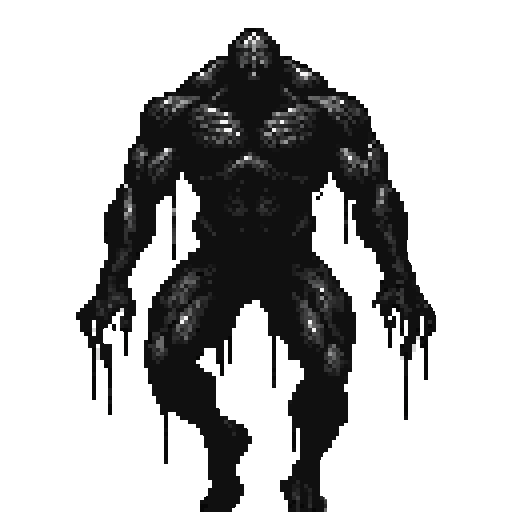
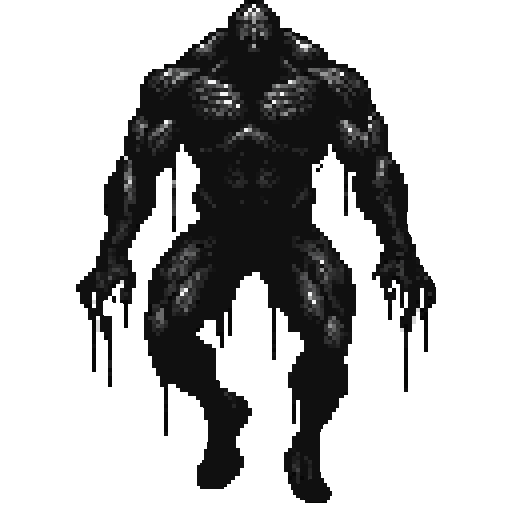
Added font, anf fixed some bug in Deck
1. Added UIText that is able to take in font and actually use it.
2. Fixed the bug inside Card that makes the shuffle to not work properly because the deck was hardcoded to only have 52 cards before so when we shuffle it also shuffles the garbage value inside too, causing garbage value to come out

diff --git a/src/main.cpp b/src/main.cpp
@@ -9,6 +9,7 @@
 #include <vector>
 #include <algorithm>
 #include "SimpleTexture.hpp"
+#include "UIObject.hpp"
 
 
 int main()
@@ -27,7 +28,7 @@ int main()
     ToggleBorderlessWindowed();
     
     RenderTexture2D target = LoadRenderTexture(virtualWidth, virtualHeight);
-    SetTextureFilter(target.texture, TEXTURE_FILTER_BILINEAR);
+    SetTextureFilter(target.texture, TEXTURE_FILTER_POINT); 
 
     //global variable
     //---------------------
@@ -35,6 +36,7 @@ int main()
     int lose = 0;
 
     AssetManager assets;
+    std::vector<GameObject2D*> scene_objects;
     //---------------------
 
 
@@ -45,31 +47,38 @@ int main()
     Player player = Player();
     player.addIntoHand(gameDeck.drawCard(3));
 
-    Texture2D cardTexture = assets.getOrLoadTexture("assets/Card.png");
-    Texture2D monster = assets.getOrLoadTexture("assets/OilMan.png");
-    Texture2D backgr = assets.getOrLoadTexture("assets/Background.png");
-
     Enemy oilman = Enemy();
     oilman.position.x = virtualWidth/2;
     oilman.position.y = virtualHeight/2;
     oilman.zIndex = 0; 
+    scene_objects.push_back(&oilman);
 
     SimpleTexture background = SimpleTexture("assets/Background.png");
     background.position.x = virtualWidth/2;
     background.position.y = virtualHeight/2;
     background.zIndex = -1;
     background.scale = {0.5f, 0.5f};
+    scene_objects.push_back(&background);
 
-    int x = -100;
+    int x = -500;
     for (Card& c : player.getHand()){
-        std::cout << c.suit << " " << c.rank << "\n";
+        std::cout << c.rank << "\n";
         c.position.x = (virtualWidth/2) + x;
         c.position.y = (virtualHeight/2) + 300;
         c.scale = {2.0f, 2.0f};
         c.zIndex = 1; 
-        x += 100;
+        x += 300;
+        scene_objects.push_back(&c);
     }
     std::cout << "Total sum : " <<  std::to_string(player.getSum()) << "\n";
+
+    UIText gameName = UIText("Oil Man Prototype", "assets/fonts/fibberish.ttf", assets);
+    gameName.position = {virtualWidth/2, virtualHeight/2};
+    scene_objects.push_back(&gameName);
+
+    UIText winAmountText = UIText("Win: ", "assets/fonts/fibberish.ttf", assets);
+    winAmountText.position = {10, 10};
+    scene_objects.push_back(&winAmountText);
 
     // Main Game Loop
     while (!WindowShouldClose())
@@ -79,12 +88,6 @@ int main()
 
         //-----------------------
 
-        //Inputs
-        //-----------------------
-        // F11 Toggle removed since game is now always fullscreen
-        //-----------------------
-
-
         //Drawing to screen
         //-----------------------
         BeginTextureMode(target);
@@ -92,19 +95,22 @@ int main()
 
 
             std::vector<GameObject2D*> renderQueue;
-            if (!oilman.hidden) {
-                renderQueue.push_back(&oilman);
-            }
-            if (!background.hidden) {
-                renderQueue.push_back(&background);
-            }
-            for (Card& c : player.getHand()) {
-                if (!c.hidden) {
-                    renderQueue.push_back(&c);
+            std::vector<GameObject2D*> UIrenderQueue;
+
+            for (const auto& o : scene_objects){
+                if (o->type == ObjectType::UI){
+                    UIrenderQueue.push_back(o);
+                }
+                else{
+                    renderQueue.push_back(o);
                 }
             }
-
+            
             std::stable_sort(renderQueue.begin(), renderQueue.end(), [](GameObject2D* a, GameObject2D* b) {
+                return a->zIndex < b->zIndex;
+            });
+
+            std::stable_sort(UIrenderQueue.begin(), UIrenderQueue.end(), [](GameObject2D* a, GameObject2D* b) {
                 return a->zIndex < b->zIndex;
             });
 
@@ -113,9 +119,11 @@ int main()
                 obj->draw(assets);
             }
 
-            DrawTextCentered("Oil Man Prototype", virtualWidth/2, virtualHeight/2, 20, RAYWHITE);
-            DrawText(TextFormat("Win: %d", win), 0, 0, 40, RAYWHITE);
-            DrawText(TextFormat("Lose: %d", lose), 0, 30, 40, RAYWHITE);
+            for (GameObject2D* obj : UIrenderQueue) {
+                obj->draw(assets);
+            }
+
+
 
         EndTextureMode();
         
@@ -136,7 +144,6 @@ int main()
     }
 
     UnloadRenderTexture(target);
-    UnloadTexture(cardTexture);
 
     // 3. Clean up
     CloseWindow();

diff --git a/src/Card.cpp b/src/Card.cpp
@@ -10,14 +10,12 @@ Deck::Deck(){
 
 void Deck::initDeck(){
     int index = 0;
-    for (int s=0 ; s < 4; s++ )
+    for (int r=0 ; r < 9; r++ )
     {
-        for (int r = 1; r < 14; r++){
-            m_allCards[index] = Card(static_cast<Suit>(s), r);
+            m_allCards[index] = Card(r);
             index++;
-        }
     }
-    m_cardCount = 52;
+    m_cardCount = 9;
 
     shuffleDeck();
     return;
@@ -25,8 +23,8 @@ void Deck::initDeck(){
 
 void Deck::shuffleDeck(){
     static std::random_device rd;
-    static std::mt19937 g(rd()); //seed Mersenne Twister with the random seed, and this returns a random number
-    std::shuffle(m_allCards.begin(), m_allCards.end(), g);
+    static std::mt19937 g(rd()); 
+    std::shuffle(m_allCards.begin(), m_allCards.begin() + m_cardCount, g);
     return;
 }
 
@@ -40,20 +38,12 @@ std::vector<Card> Deck::drawCard(int amount){
     return DrawnCard;
 }
 
-std::string Card::getSuit() const {
-    switch (suit) {
-        case Spade:   return "Spade";
-        case Heart:   return "Heart";
-        case Club:    return "Club";
-        case Diamond: return "Diamond";
-    }
-    return "Unknown";
-}
-
 void Card::draw(AssetManager& assets) const {
     if (hidden) return;
-    Texture2D tex = assets.getOrLoadTexture(getTexturePath());
+    Texture2D tex = assets.getOrLoadTexture(getTexturePath());    
     DrawTextureCentered(tex, position, scale, rotation, tint);
+    std::string rankText = std::to_string(rank);
+    DrawTextCentered(rankText.c_str(), position.x, position.y, 90, BLACK);
     return;
     
 }

diff --git a/include/UIObject.hpp b/include/UIObject.hpp
@@ -4,11 +4,26 @@
 #include <GameObject2D.hpp>
 #include <AssetManager.hpp>
 
-class UIObject : public GameObject2D{
+class UITexture : public GameObject2D{
     public:
-        UIObject() = default;
-        explicit UIObject(std::string path) : TexturePath(path){};
+        ObjectType type = ObjectType::UI;
+        explicit UITexture(std::string path) : TexturePath(path){};
         std::string TexturePath;
         std::string getTexturePath() const {return TexturePath;}
+        void draw(AssetManager& assets) const override;
+};
+
+class UIText : public GameObject2D{
+    public:
+        ObjectType type = ObjectType::UI;
+        explicit UIText(std::string t) : Text(t){
+            font = GetFontDefault();
+        };
+        explicit UIText(std::string t, std::string path, AssetManager& assets): Text(t), font(assets.getOrLoadFont(path)){};
+        std::string Text;
+        Font font = {0};
+        int baseFontSize = 20; 
+        std::string getTexturePath() const {return Text;}
+
         void draw(AssetManager& assets) const override;
 };

diff --git a/include/Card.hpp b/include/Card.hpp
@@ -5,23 +5,13 @@
 #include <GameObject2D.hpp>
 #include <AssetManager.hpp>
 
-enum Suit {
-    Spade,
-    Heart,
-    Club,
-    Diamond
-};
-
-
 class Card : public GameObject2D{
     public:
-        Suit suit;
-        int rank;
+        ObjectType type = ObjectType::UI;
+        int rank = 0; // Initialize to 0 to prevent garbage memory values
         Card() = default;
-        Card(Suit p_suit, int p_rank, Vector2 pos = {0.0f,0.0f}) 
-            :  GameObject2D(pos), suit(p_suit), rank(p_rank){};
-
-        std::string getSuit() const;
+        Card(int p_rank, Vector2 pos = {0.0f,0.0f}) 
+            :  GameObject2D(pos), rank(p_rank){};
 
         std::string TexturePath = "assets/Card.png";
         std::string getTexturePath() const {return TexturePath;}
@@ -38,6 +28,6 @@ class Deck {
         std::vector<Card> drawCard(int amount);
 
     private:
-        std::array<Card, 52> m_allCards;
+        std::array<Card, 9> m_allCards;
         int m_cardCount = 0;
 };

diff --git a/include/AssetManager.hpp b/include/AssetManager.hpp
@@ -7,20 +7,31 @@ class AssetManager {
 
 public:
     Texture2D getOrLoadTexture(const std::string& filePath) {
-        
         if (m_textures.find(filePath) == m_textures.end()) {
             m_textures[filePath] = LoadTexture(filePath.c_str());
+            SetTextureFilter(m_textures[filePath], TEXTURE_FILTER_POINT);
         }
         return m_textures[filePath]; 
+    }
+
+    Font getOrLoadFont(const std::string& filePath) {
+        if (m_fonts.find(filePath) == m_fonts.end()) {
+            m_fonts[filePath] = LoadFont(filePath.c_str());
+        }
+        return m_fonts[filePath]; 
     }
 
     ~AssetManager() {
         for (auto& [path, tex] : m_textures) {
             UnloadTexture(tex); 
         }
+        for (auto& [path, font] : m_fonts) {
+            UnloadFont(font); 
+        }
     }
 
     private:
         std::unordered_map<std::string, Texture2D> m_textures;
+        std::unordered_map<std::string, Font> m_fonts;
 
 };

diff --git a/src/tools.cpp b/src/tools.cpp
@@ -8,6 +8,14 @@ void DrawTextCentered(const char* text, int centerX, int centerY, int fontSize, 
     DrawText(text, posX, posY, fontSize, color);
 }
 
+void DrawTextCentered(const char* text, Vector2 position, int fontSize, Vector2 scale, float rotation, Color tint, Font font) {
+    float scaledFontSize = fontSize * scale.x;
+    float spacing = 2.0f;
+    Vector2 textSize = MeasureTextEx(font, text, scaledFontSize, spacing);
+    Vector2 origin = { textSize.x / 2.0f, textSize.y / 2.0f };
+    DrawTextPro(font, text, position, origin, rotation, scaledFontSize, spacing, tint);
+}
+
 void DrawTextureCentered(Texture2D texture, Vector2 position, Vector2 scale, float rotation, Color tint) {
     Rectangle source = { 0.0f, 0.0f, (float)texture.width, (float)texture.height };
     Rectangle dest = { position.x, position.y, texture.width * scale.x, texture.height * scale.y };

diff --git a/src/UIObject.cpp b/src/UIObject.cpp
@@ -1,10 +1,14 @@
 #include "UIObject.hpp"
 #include "tools.hpp"
 
-void UIObject::draw(AssetManager& assets) const {
+void UITexture::draw(AssetManager& assets) const {
     if (hidden) return;
     Texture2D tex = assets.getOrLoadTexture(getTexturePath());
     DrawTextureCentered(tex, position, scale, rotation, tint);
     return;
-    
 }
+
+void UIText::draw(AssetManager& assets) const {
+    if (hidden) return;
+    DrawTextCentered(Text.c_str(), position, baseFontSize, scale, rotation, tint, font);
+}   

diff --git a/include/tools.hpp b/include/tools.hpp
@@ -2,4 +2,6 @@
 #include "raylib.h"
 void DrawTextCentered(const char* text, int centerX, int centerY, int fontSize, Color color);
 
+void DrawTextCentered(const char* text, Vector2 position, int fontSize, Vector2 scale, float rotation, Color tint, Font font);
+
 void DrawTextureCentered(Texture2D texture, Vector2 position, Vector2 scale, float rotation, Color tint);

diff --git a/include/GameObject2D.hpp b/include/GameObject2D.hpp
@@ -2,8 +2,15 @@
 #include "raylib.h"
 #include "AssetManager.hpp"
 
+enum ObjectType{
+    UNASSIGNED,
+    UI,
+    SceneObjects
+};
+
 class GameObject2D{
     public:
+        ObjectType type = ObjectType::UNASSIGNED;
         Vector2 position{0.0f, 0.0f};
         Vector2 scale{1.0f, 1.0f};
         float rotation = 0.0f;

diff --git a/include/SimpleTexture.hpp b/include/SimpleTexture.hpp
@@ -6,6 +6,7 @@
 
 class SimpleTexture : public GameObject2D{
     public:
+        ObjectType type = ObjectType::SceneObjects;
         explicit SimpleTexture(std::string path) : TexturePath(path){};
         std::string TexturePath;
         std::string getTexturePath() const {return TexturePath;}

diff --git a/include/Enemy.hpp b/include/Enemy.hpp
@@ -7,6 +7,7 @@
 
 class Enemy : public GameObject2D{
     public:
+        ObjectType type = ObjectType::UI;
         std::string TexturePath = "assets/OilMan.png";
         std::string getTexturePath() const {return TexturePath;}
 

diff --git a/assets/credits.md b/assets/credits.md
@@ -1,0 +1,1 @@
+1. fonts: https://caffinate.itch.io/fibberish
